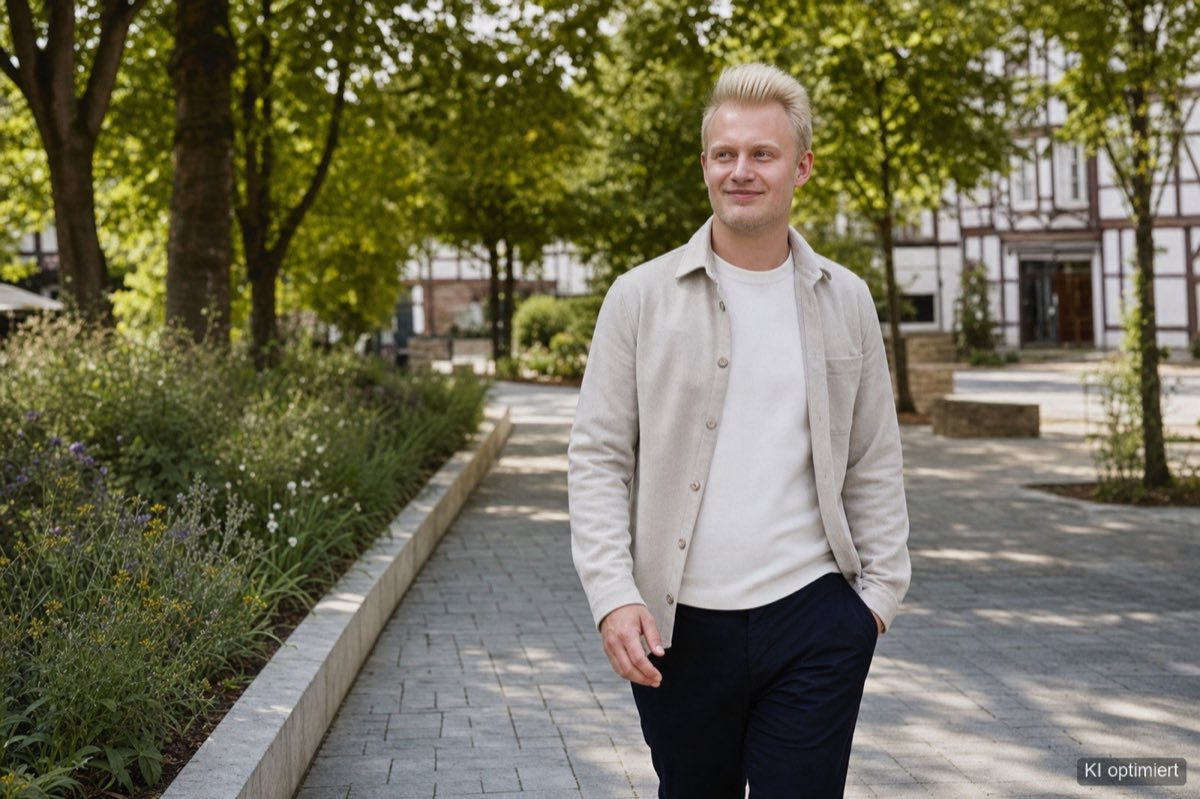
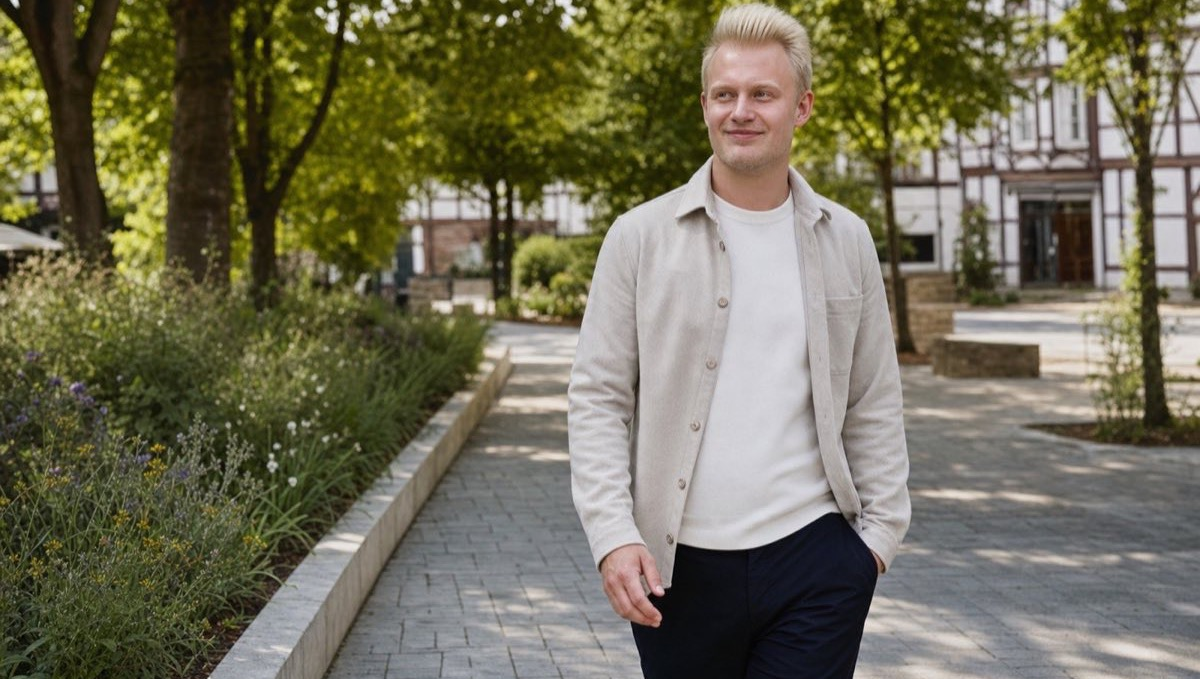
Bild-Wasserzeichen 'KI optimiert' entfernt (unteren Rand beschnitten) + OG-Bild auf sauberes Motiv

diff --git a/index.html b/index.html
@@ -12,7 +12,7 @@
 <meta property="og:title" content="Ruben Wippermann – Unternehmer · Ausbilder · Kommunalpolitik">
 <meta property="og:description" content="Unternehmer, Rettungssanitäter und Ausbilder aus Duderstadt – und Kandidat von Bündnis 90/Die Grünen.">
 <meta property="og:locale" content="de_DE">
-<meta property="og:image" content="assets/img/11-presseportrait.jpg">
+<meta property="og:image" content="assets/img/A2-nahbares-portrait-ruben-wippermann.jpg">
 <meta name="twitter:card" content="summary_large_image">
 <link rel="icon" href="assets/sunflower.svg" type="image/svg+xml">
 <link rel="stylesheet" href="styles.css">
